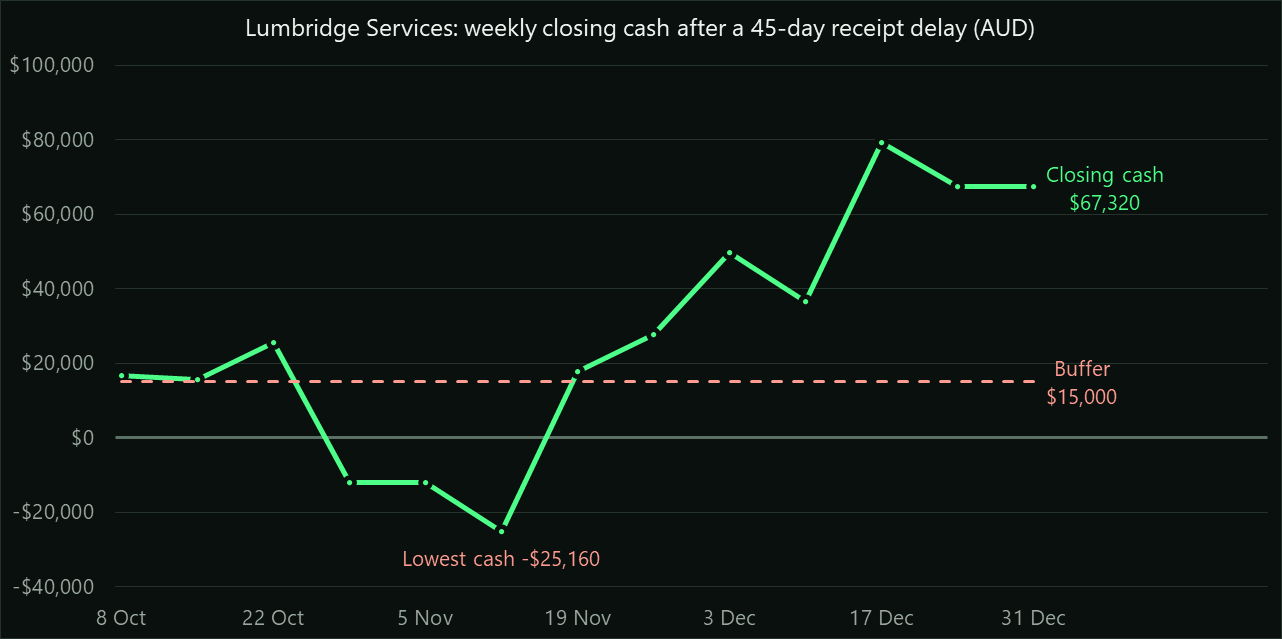
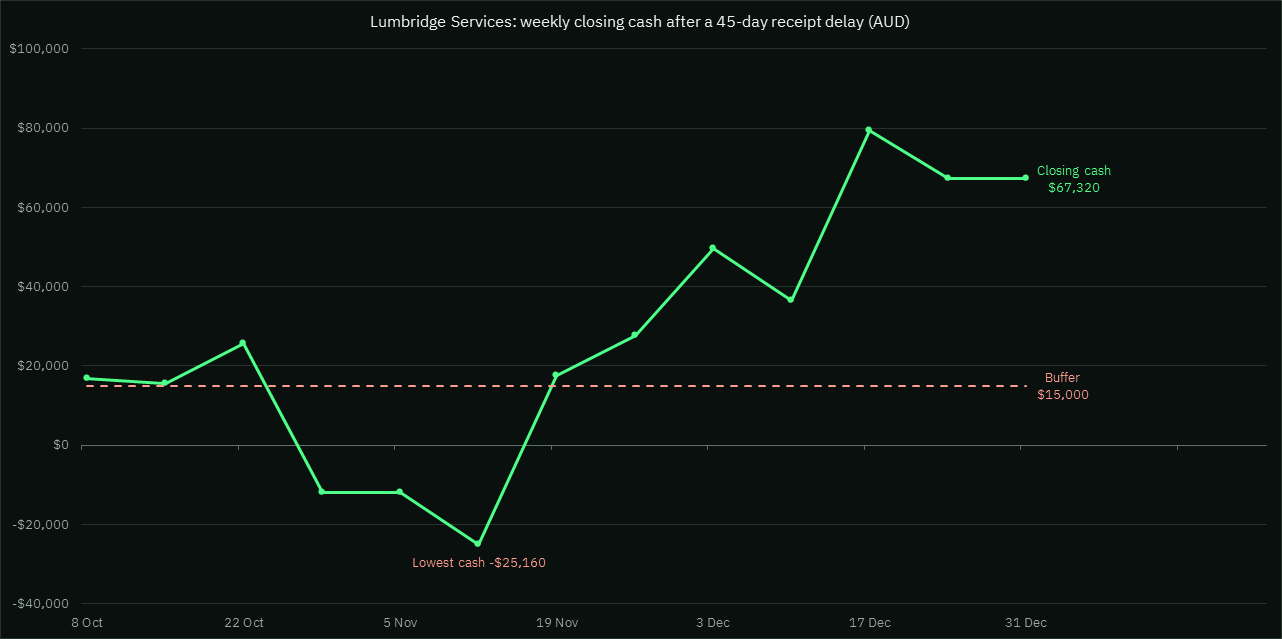
Bleed the proof band, set the cash chart in Plex and settle the small surfaces
The worked-proof band now bleeds to the viewport edges like the trust band
above it, padded back to the shell width, and drops its own top rule so one
3px rule separates the two instead of a doubled rule with a width step.

The homepage cash chart is re-exported from the pinned Lumbridge workbook
with IBM Plex Sans, the family the page serves, installed for the exporting
user; the export size is trimmed to 957 by 479.5 points so the PNG keeps its
1282 by 639 intrinsic size. Values, dates, series and the workbook hash are
unchanged; the capture record carries the new method and image hash and the
caption carries the new export date.

The lead principle cell centres its statement in its two-row height with its
description at body size. Calculate stays the calculator's one full-width
filled action while the helper buttons take their own width. Static table
rows lose their hover wash and a targeted heading no longer turns accent
green, so the accent keeps one meaning. Number inputs hide their native spin
buttons. The More index draws its last-row rule the full width. Both
homepage visual baselines are refreshed.

diff --git a/assets/site.css b/assets/site.css
@@ -575,12 +575,6 @@ caption {
   caption-side: top;
 }
 
-@media (hover: hover) {
-  tbody tr:hover td {
-    background: var(--colour-stamp-wash);
-  }
-}
-
 .rate-table--wide,
 .tool-table--wide {
   min-width: 44rem;
@@ -988,13 +982,6 @@ caption {
 
 .print-note {
   display: none;
-}
-
-:target > h2,
-:target > .route-label,
-:target > .section-title,
-:target > header h2 {
-  color: var(--colour-stamp);
 }
 
 .site-footer {
@@ -1554,9 +1541,21 @@ caption {
   padding-block: var(--space-8);
 }
 
+/* The proof band bleeds to the viewport edges like the trust band above it,
+   with its content padded back to the shell width; the trust band's bottom
+   rule already separates the two, so the band's own top rule is dropped. */
 .proof-feature {
   border-block: var(--rule-strong) solid var(--colour-ink);
   background: var(--colour-paper);
+}
+
+.proof-feature.site-shell {
+  width: 100%;
+  padding-inline: max(var(--gutter), calc((100% - var(--site-width)) / 2));
+}
+
+.trust-band + .proof-feature {
+  border-top: 0;
 }
 
 .proof-feature__layout {
@@ -1674,10 +1673,17 @@ caption {
   border-bottom: var(--rule-thin) solid var(--colour-rule-strong);
 }
 
-/* The lead cell sits on the shell edge like the heading above it. */
+/* The lead cell sits on the shell edge like the heading above it and centres
+   its statement in the two-row height instead of leaving the lower half
+   empty; its description reads at body size to match that weight. */
 .principles-list > div:first-child {
   grid-row: span 2;
+  align-content: center;
   padding-inline-start: 0;
+}
+
+.principles-list > div:first-child span {
+  font-size: var(--text-body);
 }
 
 .principles-list > div {
@@ -1716,6 +1722,13 @@ caption {
   font-family: var(--font-mono);
   font-size: var(--text-small);
   text-decoration: none;
+}
+
+/* Five links in three columns leave one empty cell; the pseudo-element takes
+   it so the last row's rule runs the full width. */
+.more-index__links::after {
+  content: "";
+  border-bottom: var(--rule-thin) solid var(--colour-rule);
 }
 
 .home > .page-meta {
@@ -1760,6 +1773,24 @@ caption {
 #branch-fields {
   display: grid;
   gap: var(--space-5);
+}
+
+/* Calculate is the form's one filled, full-width action; the helper buttons
+   keep their own width so the hierarchy reads at a glance. */
+.calculator-form button[type="button"] {
+  justify-self: start;
+}
+
+/* Amounts are typed or pasted; the native spin buttons add a second control
+   the dark register does not style. Arrow keys still step the value. */
+input[type="number"] {
+  appearance: textfield;
+}
+
+input[type="number"]::-webkit-inner-spin-button,
+input[type="number"]::-webkit-outer-spin-button {
+  appearance: none;
+  margin: 0;
 }
 
 fieldset {
@@ -2283,6 +2314,10 @@ input[type="checkbox"] {
   .more-index__links,
   .site-footer__inner {
     grid-template-columns: 1fr;
+  }
+
+  .more-index__links::after {
+    display: none;
   }
 
   .collection-index {

diff --git a/index.html b/index.html
@@ -64,7 +64,7 @@
         </div>
         <figure class="case-preview">
           <a href="/assets/examples/lumbridge/cash-preview.png"><img src="/assets/examples/lumbridge/cash-preview.png" width="1282" height="639" fetchpriority="high" decoding="async" alt="Excel chart of weekly closing cash after a 45-day receipt delay, showing the cash gap against the assumed buffer" /></a>
-          <figcaption>Cash 13 weeks, 45-day delay: lowest weekly cash -$25,160; assumed buffer $15,000. <a href="/assets/examples/lumbridge/cash-preview.png">View full-size chart</a>. Exported from the supplied workbook in Excel 16.0 on 12 September 2026. <a href="/assets/examples/lumbridge/preview-record.txt">Capture record</a>.</figcaption>
+          <figcaption>Cash 13 weeks, 45-day delay: lowest weekly cash -$25,160; assumed buffer $15,000. <a href="/assets/examples/lumbridge/cash-preview.png">View full-size chart</a>. Exported from the supplied workbook in Excel 16.0 on 13 September 2026. <a href="/assets/examples/lumbridge/preview-record.txt">Capture record</a>.</figcaption>
         </figure>
       </div>
     </section>

diff --git a/DESIGN.md b/DESIGN.md
@@ -36,6 +36,17 @@ sentences stay in IBM Plex Sans with tabular figures, a recorded exception to
 the mono rule for figures because each result is a sentence, not a ledger
 row.
 
+The same day's surface pass lets the worked-proof band bleed to the viewport
+edges like the trust band above it, with one shared rule between them; sets
+the homepage cash chart in IBM Plex Sans by installing the family for Excel
+and re-exporting from the pinned workbook; centres the lead principle cell's
+statement in its two-row height; keeps Calculate as the calculator's one
+full-width filled action while its helper buttons take their own width;
+removes the hover wash from static table rows and the accent colour from a
+targeted heading, so the accent keeps one meaning; hides native spin buttons
+on number inputs; and runs the More index rule the full width of its last
+row.
+
 The 12 September 2026 alignment pass fixes text that sat off its neighbours:
 the hero link is centred on its button; the four-task header shares the
 entry column template so its heading starts on the description edge; the
